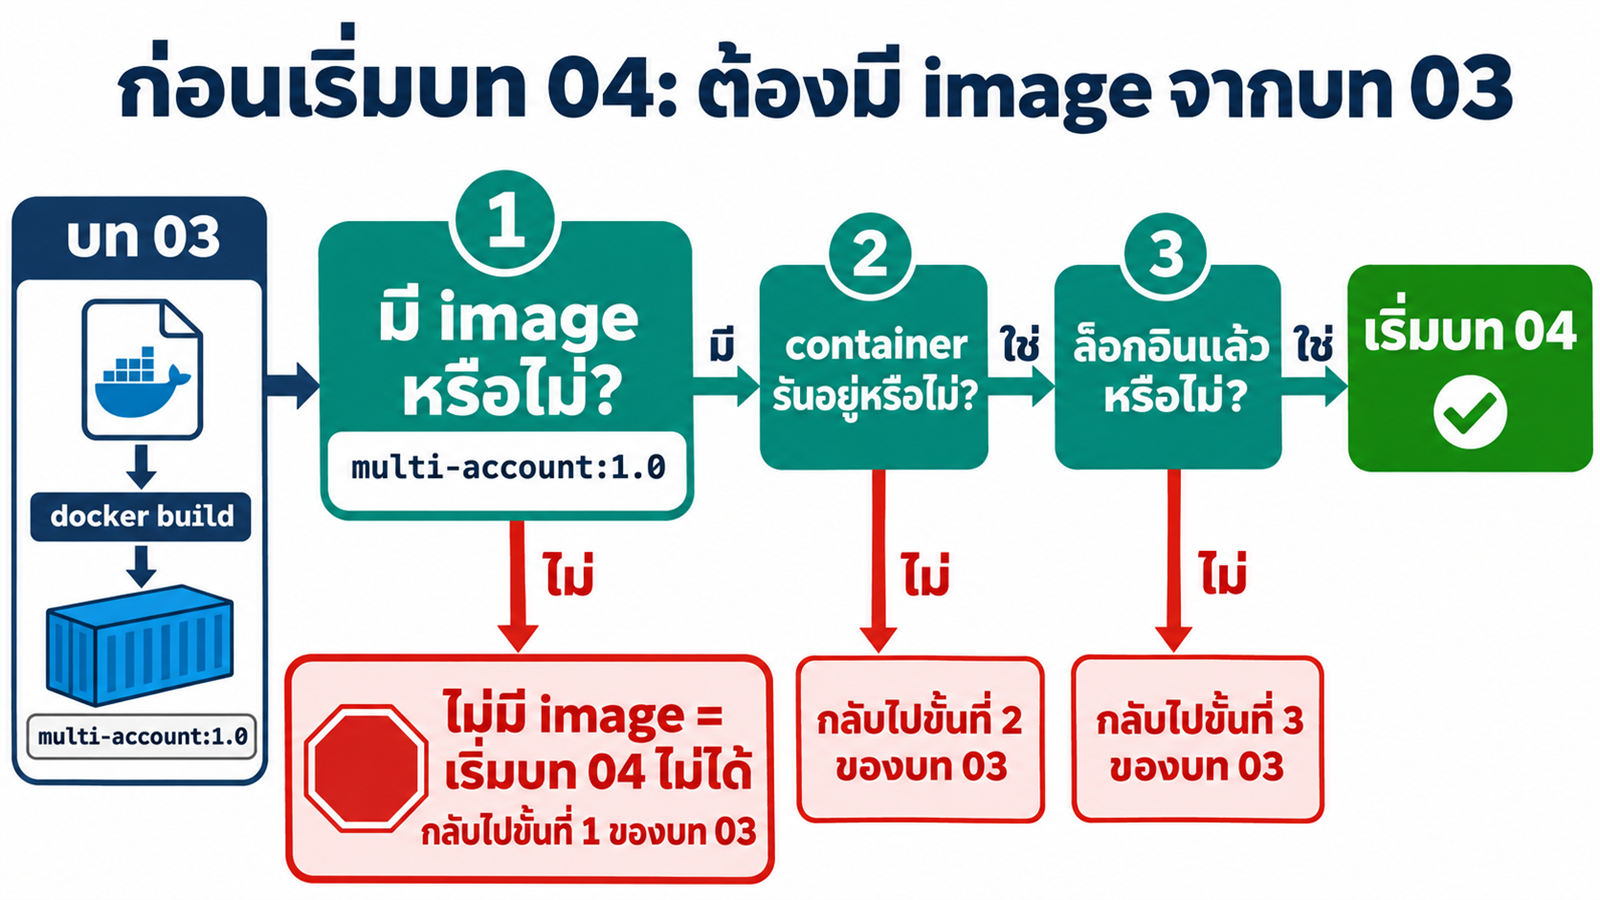
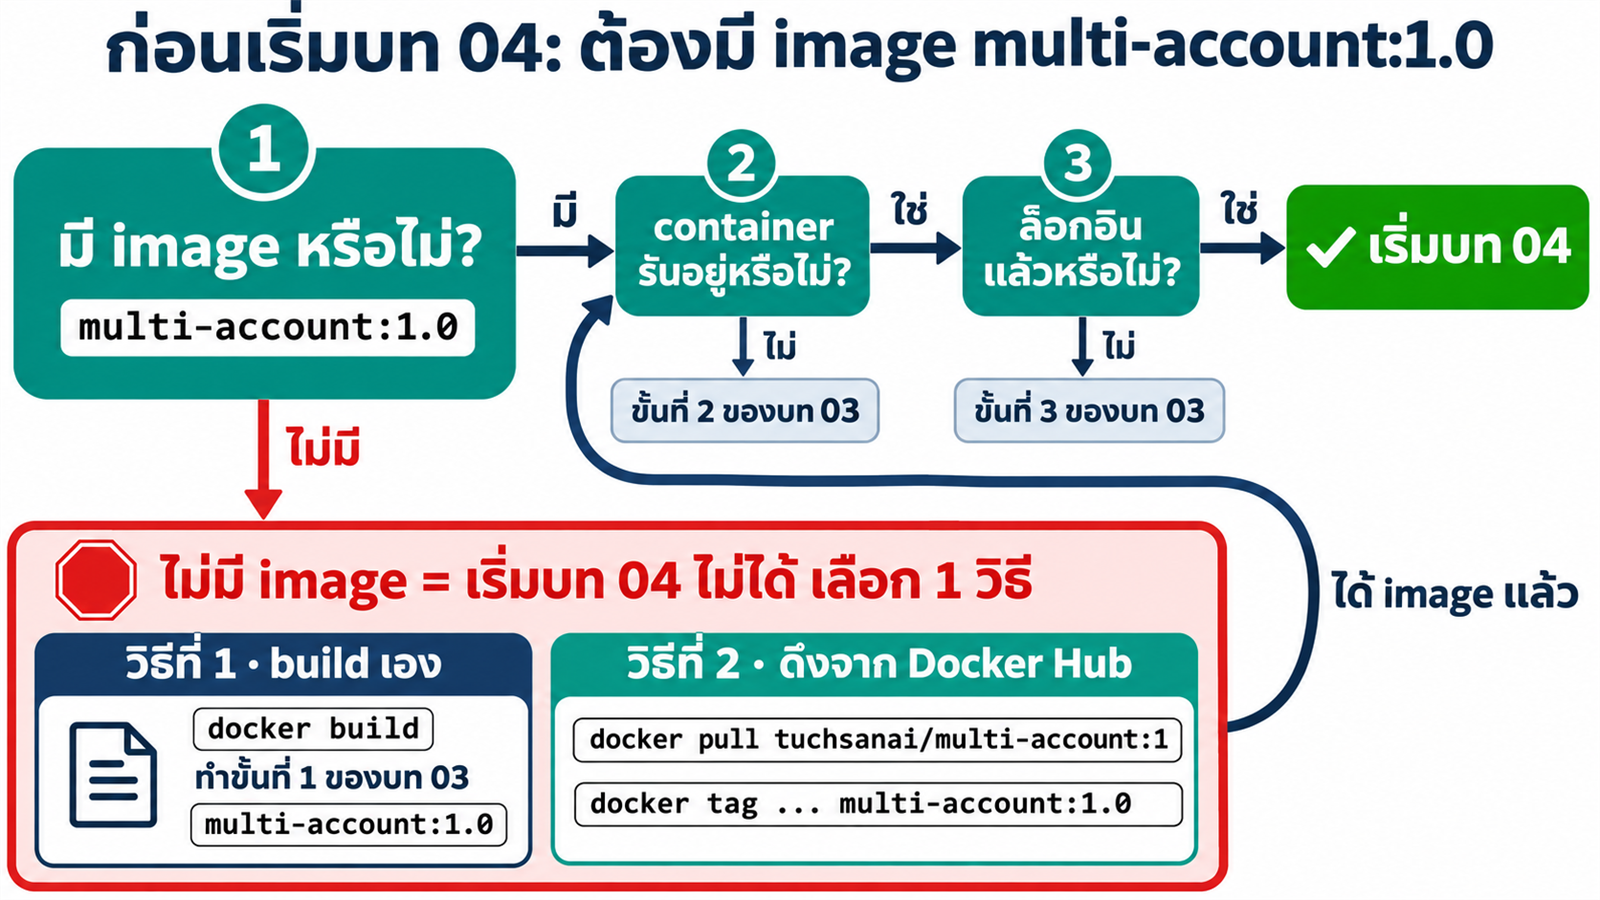
Week 02 ch04: step 0 offers two ways to get the image (build or tuchsanai/multi-account:1)

diff --git a/01_week02/04_MultiAccount_Skill/README.md b/01_week02/04_MultiAccount_Skill/README.md
@@ -5,7 +5,7 @@
 ใช้ container `multi-account` จาก [03_MultiAccount_Container](../03_MultiAccount_Container/README.md) สร้างสกิลให้ AI สั่ง `yolo1–5` และ `cyolo1–5` เป็นทีม พร้อมสถิติของทุกบัญชี
 
 > [!CAUTION]
-> **ต้องมี image `multi-account:1.0` ที่ build จาก[บท 03](../03_MultiAccount_Container/README.md) ก่อน** ถ้าไม่มี image นี้ จะทำบทนี้ไม่ได้เลย
+> **ต้องมี image `multi-account:1.0` ก่อน** ถ้าไม่มี image นี้ จะทำบทนี้ไม่ได้เลย ให้ build จาก[บท 03](../03_MultiAccount_Container/README.md) หรือดึงจาก Docker Hub ตาม[ขั้นที่ 0](#ขั้นที่-0--ตรวจว่ามี-image-และ-container-จากบท-03)
 
 ## 1. ปัญหา: มีคำสั่งครบ แต่ AI ยังใช้ไม่เป็น
 
@@ -197,7 +197,7 @@ skills/
 | **4 · สลับหัวหน้าทีมและบริหารโทเค็น** | Claude Code app | 138.6 วินาที (run 69 วินาที) |
 
 > [!CAUTION]
-> **ไม่มี image `multi-account:1.0` = เริ่มบทนี้ไม่ได้** ทุกขั้นทำงานใน container ที่สร้างจาก image นี้ ถ้ายังไม่มี ให้กลับไป[ทำบท 03](../03_MultiAccount_Container/README.md) ก่อน
+> **ไม่มี image `multi-account:1.0` = เริ่มบทนี้ไม่ได้** ทุกขั้นทำงานใน container ที่สร้างจาก image นี้ ถ้ายังไม่มี ให้เลือก 1 ใน 2 วิธีใน[ขั้นที่ 0](#ขั้นที่-0--ตรวจว่ามี-image-และ-container-จากบท-03)
 
 **ต้องมีก่อน:** image `multi-account:1.0` · container `multi-account` กำลังรัน · ล็อกอินอย่างน้อย 1 บัญชี Claude กับ 1 บัญชี Codex (ล็อกอินมากขึ้น ทีมก็ทำงานขนานได้มากขึ้น)
 
@@ -211,7 +211,7 @@ skills/
 | โฟลเดอร์งาน | `03_MultiAccount_Container/workspace` → `/workspace` | ผลงานและข้อมูลของทุก run |
 | JupyterLab | `http://localhost:8886/lab` | ลากวางสกิลในขั้นที่ 2 (ถ้าบท 03 ใช้ port อื่น ให้เปลี่ยน `8886`) |
 
-สกิลและพรอมต์ระบุชื่อ `multi-account` ไว้ตายตัว จึงต้องใช้ container ที่ build ในบท 03 ส่วน `/maccount` สร้าง container ชื่อ `multi-account-devtool` ซึ่งชื่อไม่ตรง
+สกิลและพรอมต์ระบุชื่อ `multi-account` ไว้ตายตัว จึงต้องตั้งชื่อ container ตามขั้นที่ 2 ของบท 03 ส่วน `/maccount` สร้าง container ชื่อ `multi-account-devtool` จึงใช้กับบทนี้ไม่ได้
 
 **เปิดโฟลเดอร์งาน:** ใน Claude Code app เลือก **Code** → **New session** → เลือกโฟลเดอร์ `04_MultiAccount_Skill` ของรีโปนี้
 
@@ -229,14 +229,14 @@ skills/
 
 ทำขั้นนี้ก่อนทุกครั้ง ผ่านครบแล้วจึงไปขั้นที่ 1
 
-![ด่านตรวจก่อนเริ่มบท 04: บท 03 docker build ได้ image multi-account:1.0 ด่านที่ 1 มี image หรือไม่ ถ้าไม่มีหยุด เริ่มบท 04 ไม่ได้ กลับไปขั้นที่ 1 ของบท 03 ด่านที่ 2 container รันอยู่หรือไม่ ถ้าไม่ กลับไปขั้นที่ 2 ด่านที่ 3 ล็อกอินแล้วหรือไม่ ถ้าไม่ กลับไปขั้นที่ 3 ผ่านครบจึงเริ่มบท 04](img/concept-13-image-prerequisite.png)
+![ด่านตรวจก่อนเริ่มบท 04: ด่านที่ 1 มี image multi-account:1.0 หรือไม่ ถ้าไม่มีจะเริ่มบท 04 ไม่ได้ ให้เลือกวิธีที่ 1 build เองตามขั้นที่ 1 ของบท 03 หรือวิธีที่ 2 docker pull tuchsanai/multi-account:1 จาก Docker Hub แล้ว docker tag เป็น multi-account:1.0 ด่านที่ 2 container รันอยู่หรือไม่ ด่านที่ 3 ล็อกอินแล้วหรือไม่ ผ่านครบจึงเริ่มบท 04](img/concept-13-image-prerequisite.png)
 
 > [!IMPORTANT]
 > **📋 คัดลอกกล่องนี้ → Claude Code app แล้วกด Enter**
 >
 > ```text
 > ตรวจความพร้อมก่อนเริ่มบท 04 ตรวจอย่างเดียว ห้าม build สร้าง ลบ หยุด หรือแก้ container / image / volume และห้ามล็อกอินแทนผม
-> 1. มี image multi-account:1.0 หรือไม่ (docker image inspect) ถ้าไม่มี ให้หยุดทันทีและบอกว่าต้องกลับไปทำบท 03 ก่อน
+> 1. มี image multi-account:1.0 หรือไม่ (docker image inspect) ถ้าไม่มี ให้หยุดทันทีและบอกว่าต้อง build จากบท 03 หรือดึง image สำเร็จรูปจาก Docker Hub ก่อน
 > 2. container multi-account กำลังรันและสร้างจาก image multi-account:1.0 หรือไม่
 > 3. volume ai-accounts ต่ออยู่ที่ /root/ai-accounts และ /workspace ต่อกับโฟลเดอร์ใดบนเครื่องผม
 > 4. สถานะล็อกอิน yolo1..5 (yoloN auth status ดูแค่ loggedIn) และ cyolo1..5 (cyoloN login status) ห้ามแสดงอีเมล องค์กร หรือ token
@@ -245,10 +245,31 @@ skills/
 
 | ผลที่ได้ | ทำต่อ |
 |---|---|
-| **ไม่มี image `multi-account:1.0`** | **หยุด** กลับไปทำ[ขั้นที่ 1 ของบท 03](../03_MultiAccount_Container/README.md#ขั้นที่-1--ให้-claude-สร้าง-image-30-นาที) แล้วทำขั้นถัดไปของบท 03 ต่อ |
+| **ไม่มี image `multi-account:1.0`** | **หยุด** เลือก 1 ใน 2 วิธีด้านล่าง |
 | มี image แต่ไม่มี container หรือ container ไม่ได้รัน | ทำ[ขั้นที่ 2 ของบท 03](../03_MultiAccount_Container/README.md#ขั้นที่-2--สร้าง-container-จาก-image-1-นาที) |
 | ยังไม่มีบัญชี Claude หรือ Codex ที่ล็อกอิน | ทำ[ขั้นที่ 3 ของบท 03](../03_MultiAccount_Container/README.md#ขั้นที่-3--ล็อกอินและให้-claude-ตรวจสถานะ-15-นาที) |
 | ผ่านครบ | ไปขั้นที่ 1 |
+
+### ถ้าไม่มี image: เลือก 1 ใน 2 วิธี
+
+| วิธี | ทำอย่างไร | เหมาะกับ |
+|---|---|---|
+| **1 · build เอง** | ทำ[ขั้นที่ 1 ของบท 03](../03_MultiAccount_Container/README.md#ขั้นที่-1--ให้-claude-สร้าง-image-30-นาที) (~30 นาที) | อยากเข้าใจและควบคุมสิ่งที่อยู่ใน image |
+| **2 · ดึงจาก Docker Hub** | วางพรอมต์ในกล่องด้านล่าง | ต้องการเริ่มบทนี้เร็ว ไม่ต้อง build |
+
+image สำเร็จรูปบน Docker Hub ชื่อ `tuchsanai/multi-account:1` จึงต้อง `docker tag` เป็น `multi-account:1.0` เพื่อให้ตรงกับบทเรียน
+
+> [!IMPORTANT]
+> **📋 คัดลอกกล่องนี้ → Claude Code app แล้วกด Enter**
+>
+> ```text
+> ดึง image สำเร็จรูปแล้วตั้งชื่อให้ตรงบทเรียน ห้ามลบ หยุด หรือแก้ container / image / volume ที่มีอยู่
+> 1. docker pull tuchsanai/multi-account:1
+> 2. docker tag tuchsanai/multi-account:1 multi-account:1.0
+> 3. ยืนยันด้วย docker image inspect multi-account:1.0 แล้วสรุปขนาด image และเวลาที่ใช้ แล้วหยุด
+> ```
+
+ได้ image แล้วทำ[ขั้นที่ 2](../03_MultiAccount_Container/README.md#ขั้นที่-2--สร้าง-container-จาก-image-1-นาที) และขั้นที่ 3 ของบท 03 ต่อ แล้วกลับมารันพรอมต์ตรวจความพร้อมด้านบนอีกครั้ง
 
 ## ขั้นที่ 1 · ให้ Claude สร้างสกิลจากสเปก (~43 นาที)
 
